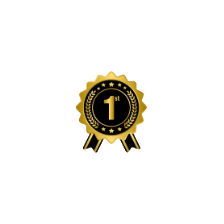
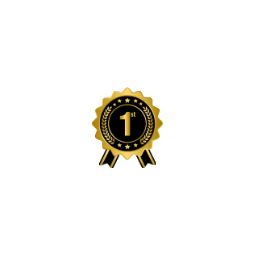
Fix badge crops (no missing pieces); water uses fillable glasses + auto-clear
Badges: re-cropped all art with a proper background removal (flood-fill only
the true outer background from the corners, keep interior highlights) so the
star and others are whole again; the padlock keeps its transparent ring. The
silver seal could not be separated from the near-white sheet cleanly, so it
was dropped (13 clean badges; removed the Prolific/silver-seal entry).

Water widget: the progress is now a row of real glass icons the reader fills
(tap a glass to fill to it, or "Had a glass"). One-tap Clear empties them all,
and hitting the daily goal celebrates then auto-clears the glasses for the
next round — no undoing one at a time. A metDay flag keeps reminders off for
the rest of the day even after the glasses clear.

Claude-Session: https://claude.ai/code/session_014rZbAjPrpfjRwsg4bnohUG

Changed region(s): [[0.3125, 0.3125, 0.6562, 0.6875]]

diff --git a/assets/js/wisp.js b/assets/js/wisp.js
@@ -6013,6 +6013,7 @@
     const s = mwState("water");
     if (!s.remind) return;
     const today = todayKey();
+    if (s.metDay === today) return;                        // already hit the goal today (glasses may be cleared)
     const n = s.day === today ? (s.n || 0) : 0;
     if (n >= waterGoal(s)) return;                         // met for today, rest easy
     const hour = new Date().getHours();
@@ -6277,18 +6278,19 @@
         const s = mwState("water"); const today = todayKey();
         const n = s.day === today ? (s.n || 0) : 0;
         const goal = waterGoal(s);
-        const met = n >= goal;
-        const pct = Math.min(100, Math.round(n / goal * 100));
+        const metToday = s.metDay === today;                       // goal was reached today (glasses may be cleared)
         const remind = !!s.remind;
-        const dots = Array.from({ length: goal }, (_, i) => `<span class="mw-water-dot${i < n ? " is-full" : ""}"></span>`).join("");
+        // A row of real glasses the reader fills up. Tap one to fill to it.
+        const glasses = Array.from({ length: goal }, (_, i) =>
+          `<button class="mw-glass${i < n ? " is-full" : ""}" data-mw-fill="${i + 1}" title="${i + 1} ${i + 1 === 1 ? "glass" : "glasses"}" aria-label="Fill to ${i + 1}">${icon("water", 26)}</button>`).join("");
+        const label = metToday ? "goal met today &#127881;" : "glasses today";
         return `
-          <div class="mw-water${met ? " is-met" : ""}">
-            <div class="mw-water-head"><span class="mw-water-count">${n}<span class="mw-water-of"> / ${goal}</span></span><span class="mw-water-label">${met ? "goal met 🎉" : "glasses today"}</span></div>
-            <div class="mw-water-dots">${dots}</div>
-            <div class="mw-water-bar" role="progressbar" aria-valuenow="${n}" aria-valuemin="0" aria-valuemax="${goal}"><span style="width:${pct}%"></span></div>
+          <div class="mw-water${metToday ? " is-met" : ""}">
+            <div class="mw-water-head"><span class="mw-water-count">${n}<span class="mw-water-of"> / ${goal}</span></span><span class="mw-water-label">${label}</span></div>
+            <div class="mw-water-glasses" role="group" aria-label="Glasses of water">${glasses}</div>
             <div class="mw-row">
               <button class="btn btn--ghost btn--sm" data-mw-water="1">${icon("water", 13)} Had a glass</button>
-              <button class="btn btn--quiet btn--sm" data-mw-water="-1" ${n ? "" : "disabled"}>Undo</button>
+              <button class="btn btn--quiet btn--sm" data-mw-water-clear ${n ? "" : "disabled"}>Clear</button>
             </div>
             <div class="mw-water-cfg">
               <span class="mw-water-goalset">Daily goal <span class="mw-stepper"><button data-mw-water-goal="-1" aria-label="Lower goal">&minus;</button><b>${goal}</b><button data-mw-water-goal="1" aria-label="Raise goal">+</button></span></span>
@@ -6297,15 +6299,33 @@
           </div>`;
       },
       wire(el) {
-        el.querySelectorAll("[data-mw-water]").forEach(b => b.addEventListener("click", () => {
+        // Set today's count to `n`. On first reaching the goal: celebrate, mark the
+        // day met (so reminders stop), then auto-clear the glasses for a fresh
+        // round — the reader never has to undo each one.
+        const setTo = (n) => {
           const s = mwState("water"); const today = todayKey();
           const cur = s.day === today ? (s.n || 0) : 0;
           const goal = waterGoal(s);
-          const n = Math.max(0, cur + (+b.dataset.mwWater));
-          mwSetState("water", { n, day: today });
-          if (+b.dataset.mwWater > 0 && cur < goal && n >= goal) celebrate("You hit your water goal", "That's " + goal + " glasses today. Nicely done.", "💧");
+          const nn = Math.max(0, Math.min(goal, n));
+          const justMet = nn >= goal && cur < goal;
+          mwSetState("water", { n: nn, day: today, metDay: (justMet || s.metDay === today) ? today : s.metDay });
+          if (justMet) {
+            celebrate("You hit your water goal", "That's " + goal + " glasses today. Nicely done.", "💧");
+            setTimeout(() => { const s2 = mwState("water"); if (s2.day === todayKey() && (s2.n || 0) >= waterGoal(s2)) { mwSetState("water", { n: 0, day: todayKey() }); renderWidgets(); } }, 2600);
+          }
           renderWidgets();
+        };
+        el.querySelectorAll("[data-mw-fill]").forEach(b => b.addEventListener("click", () => {
+          const s = mwState("water"); const cur = s.day === todayKey() ? (s.n || 0) : 0;
+          const target = +b.dataset.mwFill;
+          setTo(target === cur ? cur - 1 : target);   // tap the top glass to empty it, else fill up to it
         }));
+        el.querySelectorAll("[data-mw-water]").forEach(b => b.addEventListener("click", () => {
+          const s = mwState("water"); const cur = s.day === todayKey() ? (s.n || 0) : 0;
+          setTo(cur + (+b.dataset.mwWater));
+        }));
+        const clr = el.querySelector("[data-mw-water-clear]");
+        if (clr) clr.addEventListener("click", () => { mwSetState("water", { n: 0, day: todayKey() }); renderWidgets(); });
         el.querySelectorAll("[data-mw-water-goal]").forEach(b => b.addEventListener("click", () => {
           const s = mwState("water");
           const goal = Math.max(1, Math.min(20, waterGoal(s) + (+b.dataset.mwWaterGoal)));

diff --git a/assets/css/wisp.css b/assets/css/wisp.css
@@ -1999,14 +1999,15 @@ button.pill--link:hover { border-color: var(--rose); color: var(--rose-ink); bac
 .mw-water-of { font-size: 17px; color: var(--ink3); }
 .mw-water-label { font-size: 12px; color: var(--ink3); letter-spacing: .02em; }
 .mw-water.is-met .mw-water-count { color: #2a7ab0; }
-.mw-water-dots { display: flex; flex-wrap: wrap; gap: 5px; margin: 9px 0 8px; }
-.mw-water-dot { width: 14px; height: 18px; border-radius: 0 0 7px 7px / 0 0 9px 9px; position: relative;
-  background: color-mix(in srgb, #58a6d6 16%, transparent); border: 1px solid color-mix(in srgb, #58a6d6 34%, transparent); transition: background .18s, border-color .18s; }
-.mw-water-dot::before { content: ""; position: absolute; left: 50%; top: -4px; width: 8px; height: 8px; transform: translateX(-50%) rotate(45deg);
-  background: inherit; border-radius: 3px 0 0 0; }
-.mw-water-dot.is-full { background: #58a6d6; border-color: #3f8fc0; }
-.mw-water-bar { height: 7px; border-radius: 999px; background: color-mix(in srgb, #58a6d6 15%, var(--card)); overflow: hidden; }
-.mw-water-bar > span { display: block; height: 100%; border-radius: 999px; background: linear-gradient(90deg, #6fb7e0, #3f8fc0); transition: width .28s ease; }
+/* A row of real glasses the reader fills up; empty ones are dimmed. */
+.mw-water-glasses { display: flex; flex-wrap: wrap; gap: 6px; margin: 10px 0 9px; }
+.mw-glass { border: 0; background: none; padding: 2px; cursor: pointer; line-height: 0; border-radius: 8px;
+  transition: transform .12s ease; -webkit-tap-highlight-color: transparent; }
+.mw-glass svg { display: block; opacity: .32; filter: grayscale(.65); transition: opacity .16s ease, filter .16s ease, transform .16s ease; }
+.mw-glass.is-full svg { opacity: 1; filter: none; }
+.mw-glass:hover { transform: translateY(-2px); }
+.mw-glass:focus-visible { outline: none; box-shadow: 0 0 0 2px color-mix(in srgb, #3f8fc0 60%, transparent); }
+.mw-water.is-met .mw-water-count { color: #2a7ab0; }
 .mw-water-cfg { display: flex; align-items: center; justify-content: space-between; gap: 8px; margin-top: 11px; flex-wrap: wrap; }
 .mw-water-goalset { display: inline-flex; align-items: center; gap: 7px; font-size: 12px; color: var(--ink2); }
 .mw-stepper { display: inline-flex; align-items: center; gap: 0; border: 1px solid var(--line); border-radius: 8px; overflow: hidden; }

diff --git a/assets/js/badges.js b/assets/js/badges.js
@@ -34,7 +34,6 @@
     { id: "peoples-choice",name: "People's Choice", cat: "contest", tier: "silver", img: "rosette-silver.png", desc: "The entry readers voted for most.",      how: "Win the reader vote in an event." },
     // Milestones -------------------------------------------------------------
     { id: "first-publication", name: "First Publication", cat: "milestone", tier: "gold", img: "seal-gold.png", desc: "Published a first work on Wisp.",       how: "Publish your first work.", auto: function (s) { return (s.works || 0) >= 1; } },
-    { id: "prolific",      name: "Prolific",       cat: "milestone", tier: "silver", img: "seal-silver.png",  desc: "A shelf's worth of published works.",     how: "Publish ten or more works.", auto: function (s) { return (s.works || 0) >= 10; } },
     { id: "unlocked",      name: "Milestone Unlocked", cat: "milestone", tier: "gold", img: "padlock-gold.png", desc: "Crossed a hearts milestone.",           how: "Reach 100 hearts across your works.", auto: function (s) { return (s.hearts || 0) >= 100; } },
     { id: "legend",        name: "Legend",         cat: "milestone", tier: "gold",   img: "star-black.png",    desc: "A rare, standout honor.",                 how: "Earn a special recognition from the team." },
     // Consistency & streaks --------------------------------------------------
